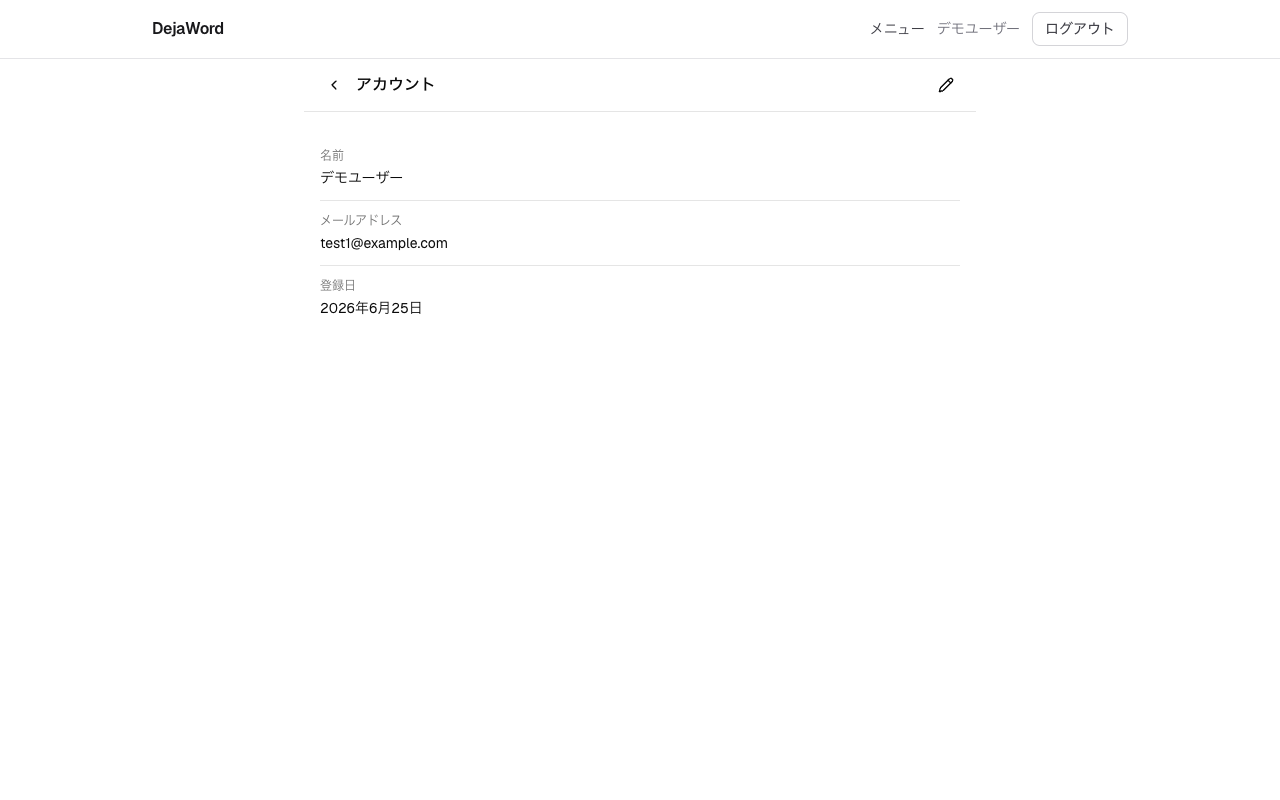
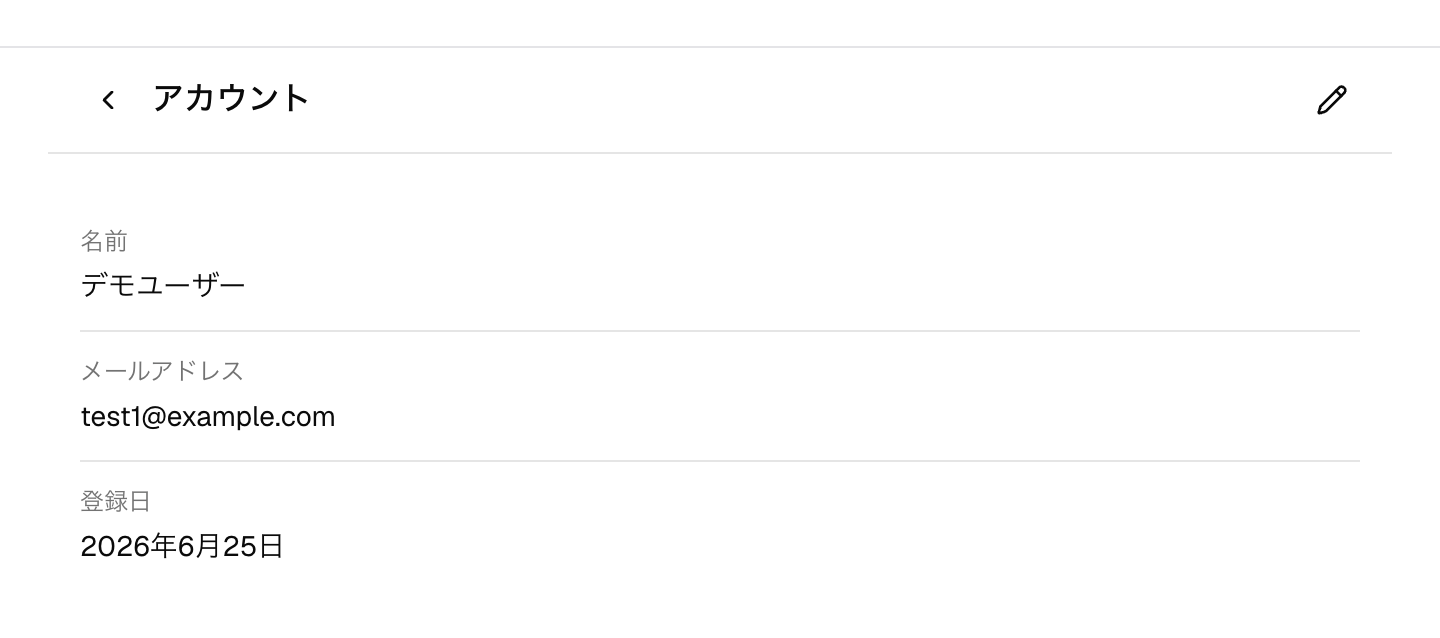
docs: スクリーンショットを 2x・コンテンツ主体のクリップ撮影に変更
- deviceScaleFactor 2 で文字を鮮明化
- shot() にコンテンツコンテナの Locator を渡し、bounding box ＋余白 24px で
  クリップ（縦は子要素の実範囲を採り、flex-1 によるコンテナの伸びを写さない）
- 既存 5 枚を再撮影

diff --git a/scripts/e2e/capture-docs-screenshots.ts b/scripts/e2e/capture-docs-screenshots.ts
@@ -19,21 +19,25 @@ const DOCS_USER_NAME = "デモユーザー";
 /** 撮影済みファイル名（拡張子なし）。最後に欠落チェックとサマリ表示に使う。 */
 const captured: string[] = [];
 
-/** ダークモード・アニメーション・端末差をなくした撮影専用コンテキスト。 */
+/** ダークモード・アニメーション・端末差をなくした撮影専用コンテキスト。2x で文字を鮮明にする。 */
 async function docsContext(browser: Browser): Promise<BrowserContext> {
   return newContext(browser, {
     viewport: { width: 1280, height: 800 },
-    deviceScaleFactor: 1,
+    deviceScaleFactor: 2,
     colorScheme: "light",
     reducedMotion: "reduce",
   });
 }
 
+/** コンテンツクリップ時に周囲へ残す余白（CSS px）。 */
+const CLIP_PADDING = 24;
+
 /**
  * `ready` の可視を待ち、トーストの消滅と dev インジケータ（nextjs-portal）の非表示化を挟んで
  * `docs/features/images/<name>.png` に保存する。
+ * `content` を渡すとその要素の bounding box ＋余白でクリップし、ページ全体の広い余白を省く。
  */
-async function shot(page: Page, name: string, ready: Locator): Promise<void> {
+async function shot(page: Page, name: string, ready: Locator, content?: Locator): Promise<void> {
   await ready.waitFor({ state: "visible", timeout: 15_000 });
   await page.waitForFunction(
     () => document.querySelectorAll("[data-sonner-toast]").length === 0,
@@ -41,7 +45,29 @@ async function shot(page: Page, name: string, ready: Locator): Promise<void> {
     { timeout: 10_000 },
   );
   await page.addStyleTag({ content: "nextjs-portal { display: none !important; }" });
-  await page.screenshot({ path: path.join(OUT_DIR, `${name}.png`) });
+
+  let clip: { x: number; y: number; width: number; height: number } | undefined;
+  if (content) {
+    // 横幅はコンテナ幅、縦は子要素の実範囲を採る（flex-1 でコンテナだけ縦に伸びる画面の余白対策）。
+    const box = await content.evaluate((el) => {
+      const rects = [...el.children].map((c) => c.getBoundingClientRect());
+      const own = el.getBoundingClientRect();
+      const top = rects.length > 0 ? Math.min(...rects.map((r) => r.top)) : own.top;
+      const bottom = rects.length > 0 ? Math.max(...rects.map((r) => r.bottom)) : own.bottom;
+      return { x: own.left, y: top, width: own.width, height: bottom - top };
+    });
+    const viewport = page.viewportSize();
+    if (!viewport) throw new Error(`${name}: viewport が未設定です`);
+    const x = Math.max(0, box.x - CLIP_PADDING);
+    const y = Math.max(0, box.y - CLIP_PADDING);
+    clip = {
+      x,
+      y,
+      width: Math.min(viewport.width, x + box.width + CLIP_PADDING * 2) - x,
+      height: box.height + CLIP_PADDING * 2,
+    };
+  }
+  await page.screenshot({ path: path.join(OUT_DIR, `${name}.png`), clip });
   captured.push(name);
   console.log(`  shot: ${name}.png`);
 }
@@ -51,14 +77,15 @@ async function sectionCommon(browser: Browser): Promise<void> {
   const anon = await docsContext(browser);
   try {
     const page = await anon.newPage();
+    const content = page.locator("main > div");
     await page.goto("/");
-    await shot(page, "landing", page.getByRole("heading", { name: "DejaWord" }));
+    await shot(page, "landing", page.getByRole("heading", { name: "DejaWord" }), content);
     await page.goto("/sign-in");
-    await shot(page, "sign-in", page.locator("#password"));
+    await shot(page, "sign-in", page.locator("#password"), content);
     await page.goto("/sign-up");
     const signUpField = page.locator("#name");
     try {
-      await shot(page, "sign-up", signUpField);
+      await shot(page, "sign-up", signUpField, content);
     } catch (e) {
       throw new Error(
         `sign-up の撮影に失敗しました。DISABLE_SIGNUP="true" の環境では /sign-up は 404 になります: ${String(e)}`,
@@ -72,7 +99,12 @@ async function sectionCommon(browser: Browser): Promise<void> {
   try {
     const page = await login(user, TEST_USER1_EMAIL, TEST_USER1_PASSWORD);
     await page.goto("/menu");
-    await shot(page, "menu", page.getByRole("heading", { name: "メニュー" }));
+    await shot(
+      page,
+      "menu",
+      page.getByRole("heading", { name: "メニュー" }),
+      page.locator("main > div"),
+    );
   } finally {
     await user.close();
   }
@@ -84,7 +116,8 @@ async function sectionAccount(browser: Browser): Promise<void> {
   try {
     const page = await login(user, TEST_USER1_EMAIL, TEST_USER1_PASSWORD);
     await page.goto("/account");
-    await shot(page, "account", page.getByText("メールアドレス"));
+    // account は main 自体が中央コンテナ（mx-auto max-w-*）なので main をクリップ対象にする。
+    await shot(page, "account", page.getByText("メールアドレス"), page.locator("main"));
   } finally {
     await user.close();
   }

diff --git a/docs/plan/feature-docs.md b/docs/plan/feature-docs.md
@@ -16,8 +16,10 @@
   セクション単位で追記していき、部分実行で既存画像を再撮影せずに済むようにする。
 - 一般ユーザーは `test1@example.com`（`ensureUser` で冪等用意）、admin 画面は system ユーザー
   （`assertSystemUserReady` で preflight、1 ユーザー 1 context 規約で別 context）。
-- 出力は `docs/features/images/<name>.png`。viewport 1280x800 / deviceScaleFactor 1 /
-  colorScheme "light" / reducedMotion "reduce" 固定。
+- 出力は `docs/features/images/<name>.png`。viewport 1280x800 / **deviceScaleFactor 2**（文字の鮮明化）/
+  colorScheme "light" / reducedMotion "reduce" 固定。ページ全体ではなく、`shot()` に
+  コンテンツコンテナの Locator を渡して **bounding box ＋余白でクリップ**する
+  （余白だらけの画像を避ける。縦方向は子要素の実範囲を採るため flex-1 の伸びは写らない）。
 - 撮影内容はローカル DB の登録データに依存する（ターゲット1900 の**部分的な**写り込みは許容、
   一式がわかる形での掲載は不可）。commit 前に目視レビューする
   （写り込み範囲・ダークモード/トースト混入なし）。
